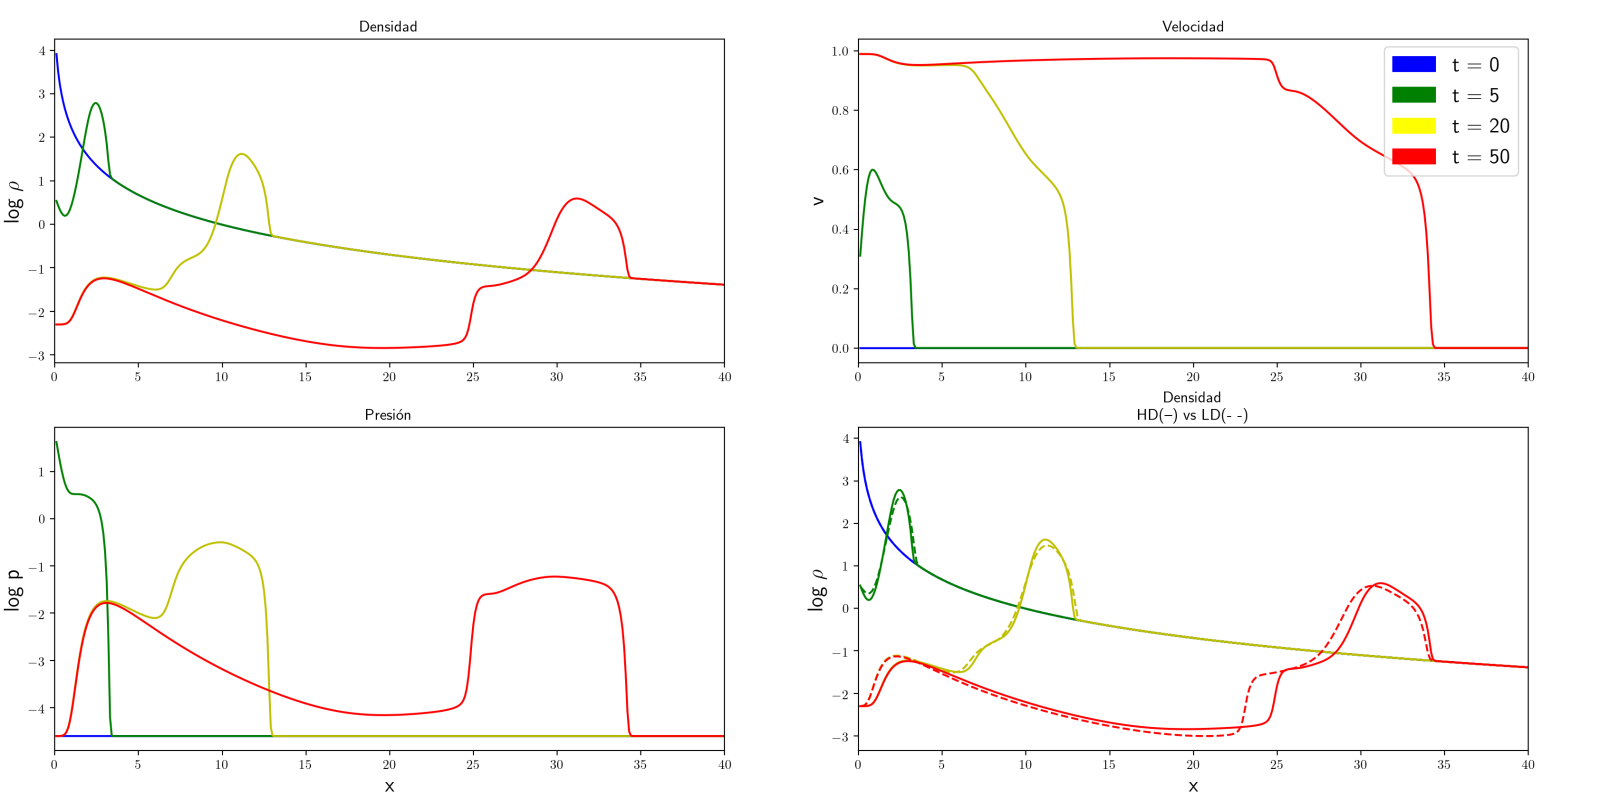
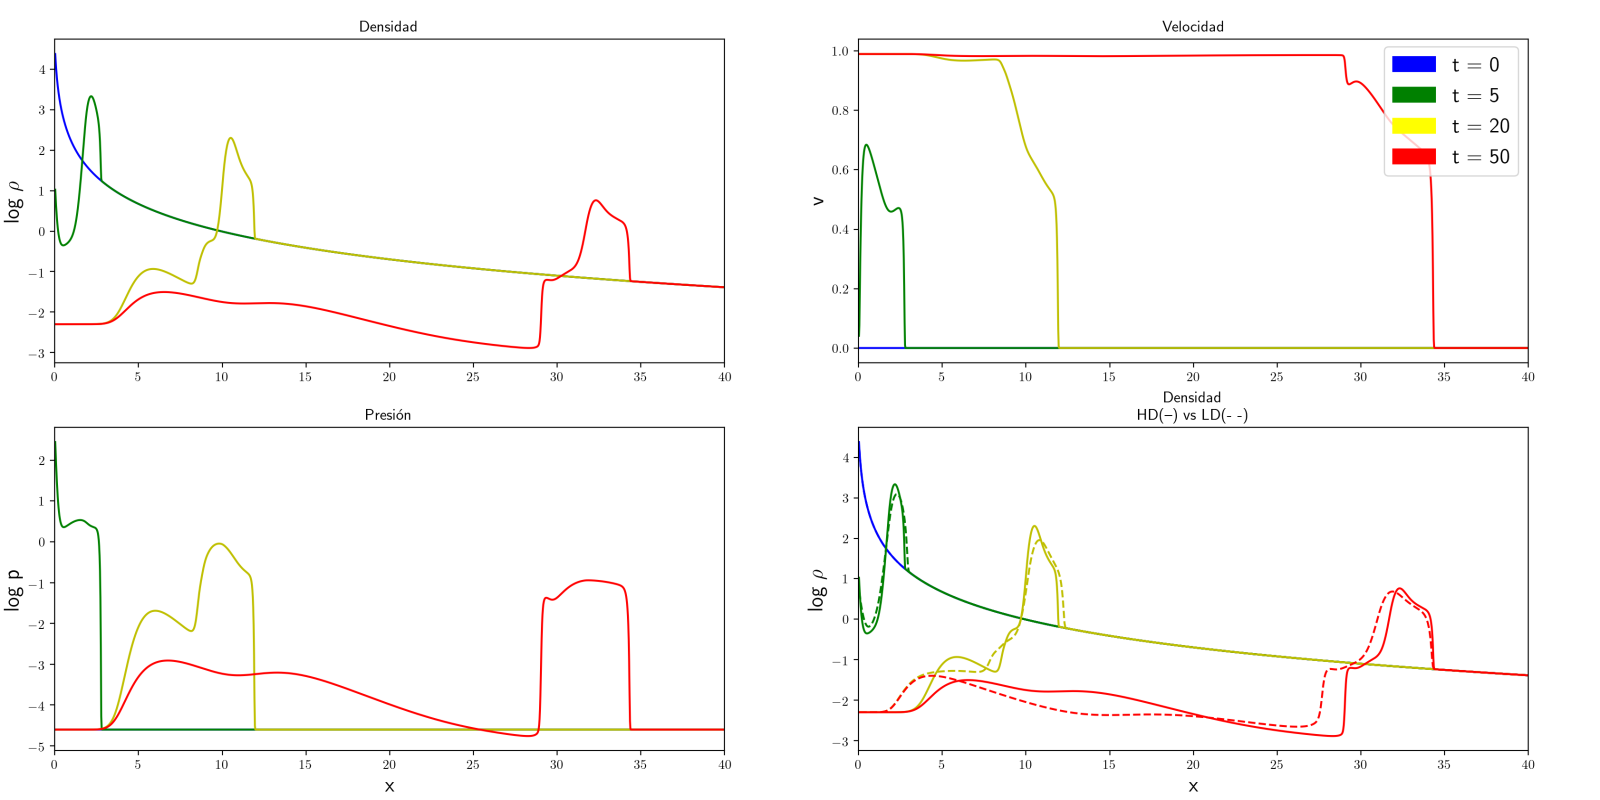
Discusion completa del capitulo del jet y actualizacion de la figura lineal

diff --git a/main.tex b/main.tex
@@ -2499,14 +2499,14 @@ a la izquierda  muestra el logaritmo de la densidad. El de arriba a la derecha, 
 logaritmo de la presión y el de abajo a la derecha muestra la comparación entre
 uno de mayor resolución con uno de baja resolución. Al tiempo t = 0, al no haber una inyección del jet, únicamente la densidad decae
 exponencialmente. al tiempo t = 5, {\color{blue} la densidad, en x = 3 tiene un máximo local que llega a 
-$\log(\rho) \approx 3$, en t = 20, el pico se situa en $x \approx 12$ con un máximo de $\log(\rho) \approx 2$ y para el 
-tiempo t = 50, el pico se situa en $x \approx 33$ con $\log(\rho) = 1$ por lo que los máximos disminuyen en función de la 
+$\log(\rho) \approx 3.5$, en t = 20, el pico se situa en $x \approx 12$ con un máximo de $\log(\rho) \approx 2.8$ y para el 
+tiempo t = 50, el pico se situa en $x \approx 33$ con $\log(\rho) = 1.3$ por lo que los máximos disminuyen en función de la 
 densidad del medio ambiente.}
 La velocidad tiene un máximo en 
 $x \approx 0.2$, donde alcanza  $v \approx 0.6$ al tiempo t = 5. {\color{blue} Para los tiempos t = 20, 50 ya no 
-presenta máximos sino que decae rápidamente en las posiciones $x \approx 6, \, 20$ respectivamente.}
-La presión no tiene un máximo local al tiempo t = 5, aunque si un cambio menos abrupto en $x = 1$. 
-{\color{blue} En los tiempos t = 20, 50 los máximos se situan en $x \approx 12$ y en $x \approx 30$}.
+presenta máximos sino que decae rápidamente en las posiciones $x \approx 8, \, 25$ respectivamente.}
+La presión no tiene un máximo local al tiempo t = 5, aunque si un cambio menos abrupto en $x = 3$. 
+{\color{blue} En los tiempos t = 20, 50 los máximos globales se situan en $x \approx 12$ y en $x \approx 33$}.
 En el panel inferior derecho, al comparar el logaritmo de la densidad en resoluciones de 3200x1600 y 1600x800,
 notamos que a diferencia del medio constante, no hay un desfase tan grande ya que para 
 $t = 5, \, x_{alta}- x_{baja} \approx 0$; para $t = 20, \, x_{alta}- x_{baja} \approx 0$ 
@@ -2519,7 +2519,7 @@ y para $t = 50, \, x_{alta}- x_{baja} \approx 1$}.
   \caption{{\color{red} Perfiles de densidad, presión y velocidad, similar a la Figura \ref{fig:comparacion_perfil_radial},
   a lo largo de $y = 10$. El panel de arriba a la izquierda muestra el logaritmo de la densidad, el de arriba a la derecha la
   velocidad, el de abajo a la izquierda el logaritmo de la presión y el panel de abajo a la derecha muestra la comparación entre
-  uno de mayor resolución (2000x1000, linea sólida) con uno de baja resolución (1000X500,
+  uno de mayor resolución (3200x1600, linea sólida) con uno de baja resolución (1600x800,
   linea punteada). {\color{blue} Para tiempos t = 0, 5, 20, 50. La densidad decae como 
   $ \rho \propto x^{-1} $ }}}\label{fig:Decaimiento_lineal_densidad_jet}
 \end{figure}
